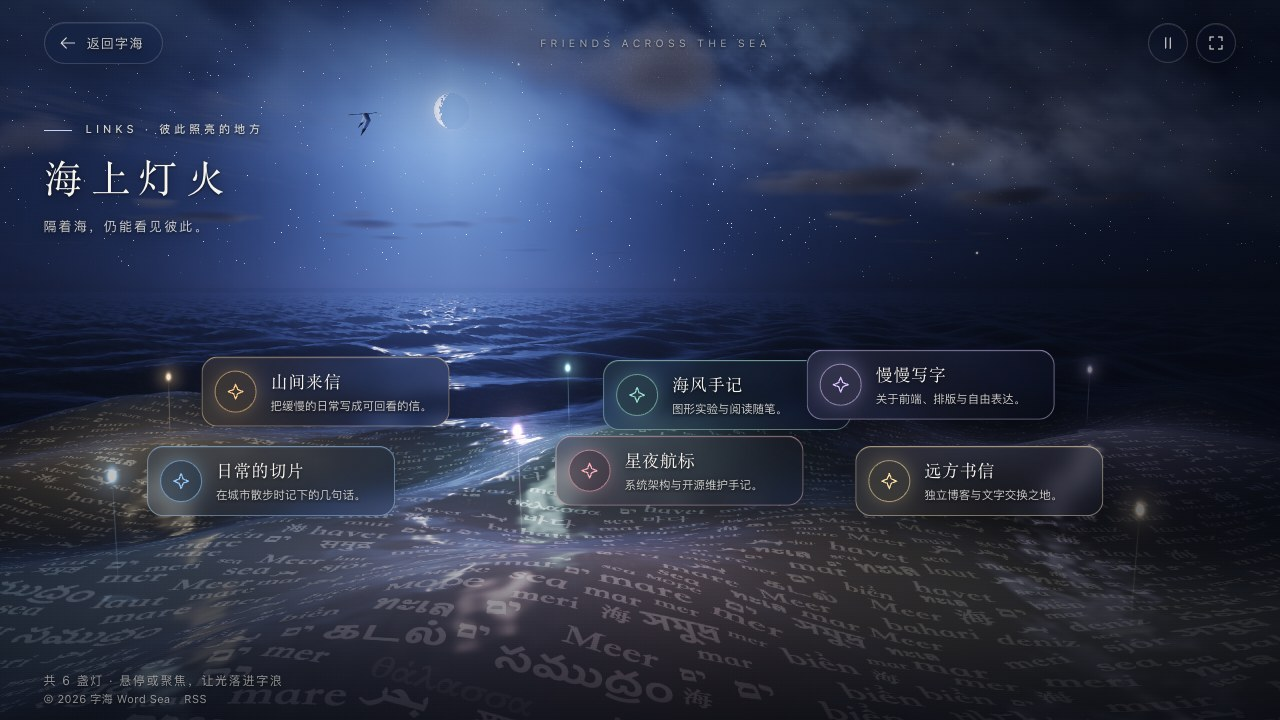
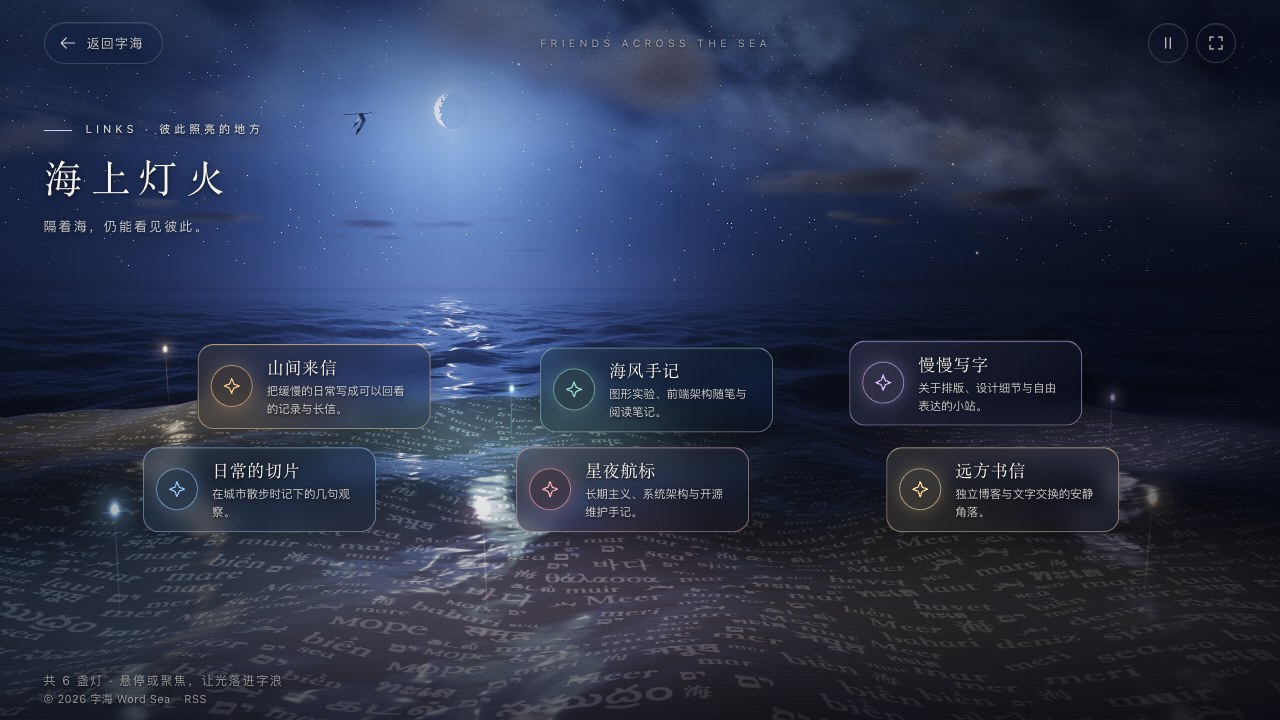
fix: avoid friend card overlap on 720p screens and align GeoJS attribution

diff --git a/assets/js/ui/weather.js b/assets/js/ui/weather.js
@@ -77,7 +77,7 @@ export default function setup() {
   dialog.className = 'weather-dialog';
   dialog.setAttribute('aria-labelledby', 'weather-title');
   dialog.innerHTML =
-    '<div class="weather-heading"><h2 id="weather-title">窗外的天气，海上的风</h2><button type="button" class="weather-close" aria-label="关闭天气设置">×</button></div><p class="weather-description">让这片字海，与你所在的地方共享阴晴。</p><label class="weather-toggle"><input id="weather-enabled" type="checkbox">跟随天气</label><form class="weather-search"><label for="weather-city">选择城市<input id="weather-city" type="search" placeholder="例如 成都、上海、Tokyo" autocomplete="off" maxlength="80"></label><button type="submit">查找</button></form><ul class="weather-results" aria-label="匹配的城市"></ul><div class="weather-location-actions"><button type="button" id="weather-locate">使用我的位置</button><button type="button" id="weather-ip">按 IP 估算城市</button><button type="button" id="weather-refresh">更新天气</button></div><p class="weather-location-note">定位只在你点击时申请，取一次位置，按附近区域查询。</p><p id="weather-status" class="weather-status" role="status" aria-live="polite"></p><label class="weather-preview" for="weather-preview">天气体验<select id="weather-preview"><option value="live">跟随实况</option><option value="clear">晴天</option><option value="cloudy">多云</option><option value="overcast">阴天</option><option value="rain">雨</option><option value="snow">雪</option><option value="fog">雾</option><option value="storm">雷雨</option></select></label><p class="weather-preview-note">体验模式只改变字海氛围，切回「跟随实况」恢复当地天气。</p><div class="weather-attribution">天气：<a href="https://open-meteo.com/" target="_blank" rel="noopener noreferrer">Open-Meteo</a> · <a href="https://creativecommons.org/licenses/by/4.0/" target="_blank" rel="noopener noreferrer">CC BY 4.0</a><small>城市：<a href="https://www.geonames.org/" target="_blank" rel="noopener noreferrer">GeoNames</a> · IP 位置估算：<a href="https://ipwhois.io/" target="_blank" rel="noopener noreferrer">ipwho.is</a></small></div>';
+    '<div class="weather-heading"><h2 id="weather-title">窗外的天气，海上的风</h2><button type="button" class="weather-close" aria-label="关闭天气设置">×</button></div><p class="weather-description">让这片字海，与你所在的地方共享阴晴。</p><label class="weather-toggle"><input id="weather-enabled" type="checkbox">跟随天气</label><form class="weather-search"><label for="weather-city">选择城市<input id="weather-city" type="search" placeholder="例如 成都、上海、Tokyo" autocomplete="off" maxlength="80"></label><button type="submit">查找</button></form><ul class="weather-results" aria-label="匹配的城市"></ul><div class="weather-location-actions"><button type="button" id="weather-locate">使用我的位置</button><button type="button" id="weather-ip">按 IP 估算城市</button><button type="button" id="weather-refresh">更新天气</button></div><p class="weather-location-note">定位只在你点击时申请，取一次位置，按附近区域查询。</p><p id="weather-status" class="weather-status" role="status" aria-live="polite"></p><label class="weather-preview" for="weather-preview">天气体验<select id="weather-preview"><option value="live">跟随实况</option><option value="clear">晴天</option><option value="cloudy">多云</option><option value="overcast">阴天</option><option value="rain">雨</option><option value="snow">雪</option><option value="fog">雾</option><option value="storm">雷雨</option></select></label><p class="weather-preview-note">体验模式只改变字海氛围，切回「跟随实况」恢复当地天气。</p><div class="weather-attribution">天气：<a href="https://open-meteo.com/" target="_blank" rel="noopener noreferrer">Open-Meteo</a> · <a href="https://creativecommons.org/licenses/by/4.0/" target="_blank" rel="noopener noreferrer">CC BY 4.0</a><small>城市：<a href="https://www.geonames.org/" target="_blank" rel="noopener noreferrer">GeoNames</a> · IP 位置估算：<a href="https://www.geojs.io/" target="_blank" rel="noopener noreferrer">GeoJS</a></small></div>';
   document.body.append(dialog);
   const toggle = dialog.querySelector('#weather-enabled'),
     status = dialog.querySelector('#weather-status'),

diff --git a/assets/js/scene/app.js b/assets/js/scene/app.js
@@ -316,9 +316,17 @@ function start() {
   const projected = { x: 0, y: 0, w: 1 };
   function layoutLanterns() {
     const cruise = harbor.target ? harbor.cruiseTarget : CRUISE + (harbor.page - 1) * HARBOR_PAGE_STEP;
+    const compact = viewport.width <= 1150 || viewport.height <= 650;
     for (const node of nodes) {
       const p = world.harborPoint(node.friend.at[0], node.friend.at[1], cruise);
       node.x = p.x; node.z = p.z;
+      if (node.anchor && !compact && !friendsView.hidden) {
+        node.w = node.anchor.offsetWidth || 248;
+        node.h = node.anchor.offsetHeight || 82;
+      } else {
+        node.w ||= 248;
+        node.h ||= 82;
+      }
     }
   }
   function bindFriends(data, page = harbor.page) {
@@ -342,7 +350,7 @@ function start() {
     }
     const anchors = [...document.querySelectorAll('.friend-link')];
     nodes = friends.map((friend, i) => ({
-      friend, i, x: 0, y: 0, z: 0, level: 0, alpha: 0, anchor: anchors[i],
+      friend, i, x: 0, y: 0, z: 0, level: 0, alpha: 0, w: 248, h: 82, cardX: 0, cardY: 0, anchor: anchors[i],
       color: friend.color.map(v => v / 255),
     }));
     layoutLanterns();
@@ -363,6 +371,8 @@ function start() {
     sea.lanterns.fill(0); sea.lanternColors.fill(0);
     const compact = viewport.width <= 1150 || viewport.height <= 650;
     const progress = harbor.paging ? harbor.pageMix : harbor.mix;
+    const minY = Math.min(250, Math.round(viewport.height * .32));
+    const placed = [];
     for (const node of nodes) {
       const target = harbor.hover === node.i ? 1 : 0;
       node.level = reducedMotion.matches ? target : damp(node.level, target, 6, dt);
@@ -378,11 +388,48 @@ function start() {
       if (node.anchor && !compact) {
         // Labels stay anchored while the lanterns themselves ride the waves.
         world.project(projected, node.x, 2.6, node.z);
+        const w = node.w || 248, h = node.h || 82;
         const right = node.friend.at[0] > .62;
-        const x = clamp(projected.x + (right ? -282 : 34), 16, viewport.width - 264);
-        style(node.anchor, 'transform', `translate3d(${x.toFixed(1)}px,${(projected.y - 30).toFixed(1)}px,0)`);
-        style(node.anchor, 'opacity', String(node.alpha * smoothstep(.52, .92, progress)));
+        const maxX = Math.max(16, viewport.width - w - 16);
+        const maxY = Math.max(minY, viewport.height - h - 76);
+        node.cardX = clamp(projected.x + (right ? -(w + 30) : 30), 16, maxX);
+        node.cardY = clamp(projected.y - h * .38, minY, maxY);
+        placed.push(node);
       } else if (node.anchor) { style(node.anchor, 'transform', ''); style(node.anchor, 'opacity', ''); }
+    }
+    if (placed.length > 1) {
+      const gap = 14;
+      for (let pass = 0; pass < 3; pass++) {
+        for (let i = 0; i < placed.length; i++) {
+          for (let j = i + 1; j < placed.length; j++) {
+            const a = placed[i], b = placed[j];
+            const ox = Math.min(a.cardX + a.w, b.cardX + b.w) - Math.max(a.cardX, b.cardX) + gap;
+            const oy = Math.min(a.cardY + a.h, b.cardY + b.h) - Math.max(a.cardY, b.cardY) + gap;
+            if (ox <= 0 || oy <= 0) continue;
+            const rowDiff = Math.abs(a.friend.at[1] - b.friend.at[1]) > .08;
+            if (rowDiff || oy <= ox) {
+              const up = a.friend.at[1] <= b.friend.at[1] ? a : b;
+              const dn = up === a ? b : a;
+              up.cardY -= oy * .5;
+              dn.cardY += oy * .5;
+            } else {
+              const left = a.cardX <= b.cardX ? a : b;
+              const right = left === a ? b : a;
+              left.cardX -= ox * .5;
+              right.cardX += ox * .5;
+            }
+            for (const c of [a, b]) {
+              c.cardX = clamp(c.cardX, 16, Math.max(16, viewport.width - c.w - 16));
+              c.cardY = clamp(c.cardY, minY, Math.max(minY, viewport.height - c.h - 76));
+            }
+          }
+        }
+      }
+    }
+    const cardOpacity = smoothstep(.52, .92, progress);
+    for (const node of placed) {
+      style(node.anchor, 'transform', `translate3d(${node.cardX.toFixed(1)}px,${node.cardY.toFixed(1)}px,0)`);
+      style(node.anchor, 'opacity', String(node.alpha * cardOpacity));
     }
     lanterns.update(nodes);
     return settling || !world.paused;

diff --git a/assets/css/theme.css b/assets/css/theme.css
@@ -649,7 +649,7 @@ dialog { color: var(--ink); }
 .friend-list { position: absolute; inset: 0; pointer-events: none; }
 .friend-list > [role="listitem"] { display: contents; }
 .friend-link {
-  position: absolute; left: 0; top: 0; display: flex; align-items: center; gap: 14px; width: 248px; min-height: 70px; padding: 11px 16px 11px 12px;
+  position: absolute; left: 0; top: 0; display: flex; align-items: center; gap: 14px; width: clamp(220px, 18.2vw, 248px); min-height: 70px; padding: 11px 16px 11px 12px;
   border: 1px solid color-mix(in srgb, var(--lamp) 38%, rgb(255 255 255 / .14)); border-top-color: color-mix(in srgb, var(--lamp) 65%, transparent); border-radius: 16px; text-decoration: none; color: var(--ink); pointer-events: auto; opacity: 0;
   background: linear-gradient(135deg, color-mix(in srgb, var(--lamp) 12%, rgb(8 12 22 / .4)), rgb(8 12 22 / .28));
   backdrop-filter: blur(10px) saturate(130%); -webkit-backdrop-filter: blur(10px) saturate(130%);

diff --git a/functions.php b/functions.php
@@ -9,7 +9,7 @@ function themeConfig($form)
     ], 'auto', '默认光线'));
     $form->addInput(new \Typecho\Widget\Helper\Form\Element\Select('wordSeaWeather', [
         'auto' => '开启，按访客 IP 估算城市', 'city' => '开启，访客自行选择城市', 'off' => '默认关闭'
-    ], 'auto', '字海天气', '天气使用 Open-Meteo。IP 估算使用 ipwho.is，可能有位置偏差；访客可以更换城市或主动授权浏览器定位。天气接口不可用时沿用原有字海。'));
+    ], 'auto', '字海天气', '天气使用 Open-Meteo。IP 估算使用 GeoJS，可能有位置偏差；访客可以更换城市或主动授权浏览器定位。天气接口不可用时沿用原有字海。'));
     $form->addInput(new \Typecho\Widget\Helper\Form\Element\Text('wordSeaWeatherCity', null, '', '默认天气城市', '选填，例如 成都、上海、Singapore。未保存城市的访客优先使用此城市；访客仍可自行更换。'));
     $form->addInput((new \Typecho\Widget\Helper\Form\Element\Text('wordSeaWind', null, '45', '默认风浪（0–100）'))->addRule('wordsea_wind_valid', '请填写 0–100 的整数'));
     $form->addInput((new \Typecho\Widget\Helper\Form\Element\Text('wordSeaDensity', null, '95', '默认字密度（30–100）'))->addRule('wordsea_density_valid', '请填写 30–100 的整数'));
@@ -136,7 +136,7 @@ function wordsea_friends($options)
     $raw = $value === '' ? wordsea_default_friends() : json_decode($value, true);
     if (!is_array($raw)) return [];
     $colors = [[255,204,135], [153,221,203], [219,196,255], [148,203,255], [255,175,188], [255,224,163]];
-    $positions = [[.10,.63], [.44,.64], [.88,.61], [.055,.89], [.40,.86], [.92,.89]];
+    $positions = [[.10,.60], [.39,.61], [.90,.59], [.055,.90], [.37,.90], [.93,.90]];
     $rows = [];
     foreach ($raw as $item) {
         if (!is_array($item) || !isset($item['name'], $item['url']) || !is_string($item['name']) || !is_string($item['url'])) continue;
